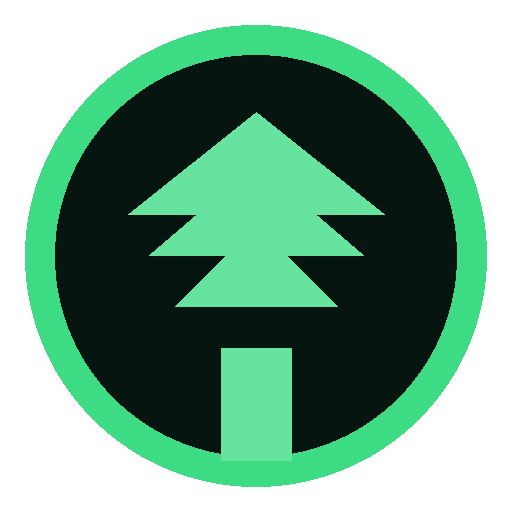
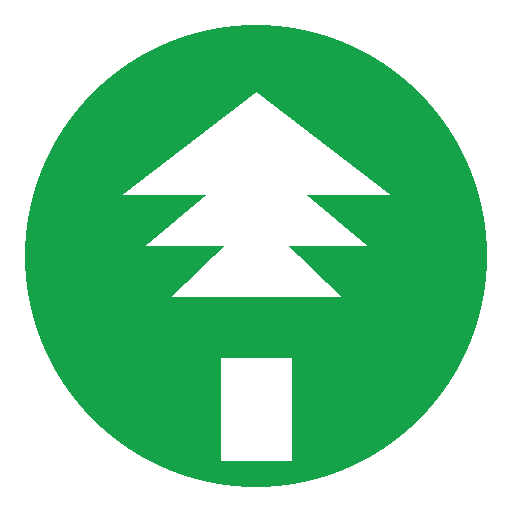
Add files via upload

diff --git a/index.html b/index.html
@@ -12,8 +12,8 @@
     <link rel="apple-touch-icon" href="/icon-192.png" />
     <link rel="manifest" href="/manifest.json" />
     <title>CARBONCHIP BI</title>
-    <script type="module" crossorigin src="/assets/index-DrqCAZCV.js"></script>
-    <link rel="stylesheet" crossorigin href="/assets/index-B7gFRBOR.css">
+    <script type="module" crossorigin src="/assets/index-B_oHOQU-.js"></script>
+    <link rel="stylesheet" crossorigin href="/assets/index-CCE2PNBq.css">
   </head>
   <body>
     <div id="root"></div>

diff --git a/sw.js b/sw.js
@@ -1,5 +1,5 @@
-const CACHE = 'carbonchip-bi-v1';
-const ASSETS = ['/', '/index.html', '/manifest.json', '/icon-192.png', '/icon-512.png', '/assets/index-DrqCAZCV.js', '/assets/index-B7gFRBOR.css'];
+const CACHE = 'carbonchip-bi-v2';
+const ASSETS = ['/', '/index.html', '/manifest.json', '/icon-192.png', '/icon-512.png', '/assets/index-B_oHOQU-.js', '/assets/index-CCE2PNBq.css'];
 self.addEventListener('install', e => { e.waitUntil(caches.open(CACHE).then(c => c.addAll(ASSETS))); self.skipWaiting(); });
 self.addEventListener('activate', e => { e.waitUntil(caches.keys().then(ks => Promise.all(ks.filter(k=>k!==CACHE).map(k=>caches.delete(k))))); self.clients.claim(); });
 self.addEventListener('fetch', e => { e.respondWith(caches.match(e.request).then(r => r || fetch(e.request))); });

diff --git a/assets/index-CCE2PNBq.css b/assets/index-CCE2PNBq.css
@@ -1,0 +1,1 @@
+@import "https://fonts.googleapis.com/css2?family=Poppins:wght@400;500;600;700;800&family=JetBrains+Mono:wght@400;600&display=swap";*,:before,:after,::backdrop{--tw-border-spacing-x:0;--tw-border-spacing-y:0;--tw-translate-x:0;--tw-translate-y:0;--tw-rotate:0;--tw-skew-x:0;--tw-skew-y:0;--tw-scale-x:1;--tw-scale-y:1;--tw-pan-x: ;--tw-pan-y: ;--tw-pinch-zoom: ;--tw-scroll-snap-strictness:proximity;--tw-gradient-from-position: ;--tw-gradient-via-position: ;--tw-gradient-to-position: ;--tw-ordinal: ;--tw-slashed-zero: ;--tw-numeric-figure: ;--tw-numeric-spacing: ;--tw-numeric-fraction: ;--tw-ring-inset: ;--tw-ring-offset-width:0px;--tw-ring-offset-color:#fff;--tw-ring-color:#3b82f680;--tw-ring-offset-shadow:0 0 #0000;--tw-ring-shadow:0 0 #0000;--tw-shadow:0 0 #0000;--tw-shadow-colored:0 0 #0000;--tw-blur: ;--tw-brightness: ;--tw-contrast: ;--tw-grayscale: ;--tw-hue-rotate: ;--tw-invert: ;--tw-saturate: ;--tw-sepia: ;--tw-drop-shadow: ;--tw-backdrop-blur: ;--tw-backdrop-brightness: ;--tw-backdrop-contrast: ;--tw-backdrop-grayscale: ;--tw-backdrop-hue-rotate: ;--tw-backdrop-invert: ;--tw-backdrop-opacity: ;--tw-backdrop-saturate: ;--tw-backdrop-sepia: ;--tw-contain-size: ;--tw-contain-layout: ;--tw-contain-paint: ;--tw-contain-style: }*,:before,:after{box-sizing:border-box;border:0 solid #e5e7eb}:before,:after{--tw-content:""}html,:host{-webkit-text-size-adjust:100%;tab-size:4;font-feature-settings:normal;font-variation-settings:normal;-webkit-tap-highlight-color:transparent;font-family:Poppins,system-ui,sans-serif;line-height:1.5}body{line-height:inherit;margin:0}hr{height:0;color:inherit;border-top-width:1px}abbr:where([title]){-webkit-text-decoration:underline dotted;text-decoration:underline dotted}h1,h2,h3,h4,h5,h6{font-size:inherit;font-weight:inherit}a{color:inherit;-webkit-text-decoration:inherit;text-decoration:inherit}b,strong{font-weight:bolder}code,kbd,samp,pre{font-feature-settings:normal;font-variation-settings:normal;font-family:JetBrains Mono,monospace;font-size:1em}small{font-size:80%}sub,sup{vertical-align:baseline;font-size:75%;line-height:0;position:relative}sub{bottom:-.25em}sup{top:-.5em}table{text-indent:0;border-color:inherit;border-collapse:collapse}button,input,optgroup,select,textarea{font-feature-settings:inherit;font-variation-settings:inherit;font-family:inherit;font-size:100%;font-weight:inherit;line-height:inherit;letter-spacing:inherit;color:inherit;margin:0;padding:0}button,select{text-transform:none}button,input:where([type=button]),input:where([type=reset]),input:where([type=submit]){-webkit-appearance:button;background-color:#0000;background-image:none}:-moz-focusring{outline:auto}:-moz-ui-invalid{box-shadow:none}progress{vertical-align:baseline}::-webkit-inner-spin-button{height:auto}::-webkit-outer-spin-button{height:auto}[type=search]{-webkit-appearance:textfield;outline-offset:-2px}::-webkit-search-decoration{-webkit-appearance:none}::-webkit-file-upload-button{-webkit-appearance:button;font:inherit}summary{display:list-item}blockquote,dl,dd,h1,h2,h3,h4,h5,h6,hr,figure,p,pre{margin:0}fieldset{margin:0;padding:0}legend{padding:0}ol,ul,menu{margin:0;padding:0;list-style:none}dialog{padding:0}textarea{resize:vertical}input::-moz-placeholder{opacity:1;color:#9ca3af}textarea::-moz-placeholder{opacity:1;color:#9ca3af}input::placeholder,textarea::placeholder{opacity:1;color:#9ca3af}button,[role=button]{cursor:pointer}:disabled{cursor:default}img,svg,video,canvas,audio,iframe,embed,object{vertical-align:middle;display:block}img,video{max-width:100%;height:auto}[hidden]:where(:not([hidden=until-found])){display:none}*,:before,:after{box-sizing:border-box}html{-webkit-tap-highlight-color:transparent}body{color:#0f172a;-webkit-font-smoothing:antialiased;background-color:#f8fafc;font-family:Poppins,system-ui,sans-serif}input[type=date],input[type=time]{--lightningcss-light:initial;--lightningcss-dark: ;color-scheme:light}input,select,button,textarea{font-family:inherit}::-webkit-scrollbar{width:4px;height:4px}::-webkit-scrollbar-track{background:#f1f5f9}::-webkit-scrollbar-thumb{background:#cbd5e1;border-radius:2px}.fixed{position:fixed}.absolute{position:absolute}.relative{position:relative}.sticky{position:sticky}.inset-0{inset:0}.bottom-0{bottom:0}.left-0{left:0}.right-0{right:0}.top-0{top:0}.top-\[101px\]{top:101px}.top-\[53px\]{top:53px}.z-10{z-index:10}.z-30{z-index:30}.z-40{z-index:40}.z-50{z-index:50}.mx-auto{margin-left:auto;margin-right:auto}.mb-0\.5{margin-bottom:.125rem}.mb-1{margin-bottom:.25rem}.mb-1\.5{margin-bottom:.375rem}.mb-2{margin-bottom:.5rem}.mb-3{margin-bottom:.75rem}.mb-4{margin-bottom:1rem}.mb-5{margin-bottom:1.25rem}.mb-8{margin-bottom:2rem}.ml-1{margin-left:.25rem}.mt-0\.5{margin-top:.125rem}.mt-1{margin-top:.25rem}.mt-1\.5{margin-top:.375rem}.mt-2{margin-top:.5rem}.mt-2\.5{margin-top:.625rem}.mt-3{margin-top:.75rem}.mt-4{margin-top:1rem}.block{display:block}.flex{display:flex}.inline-flex{display:inline-flex}.grid{display:grid}.hidden{display:none}.h-1{height:.25rem}.h-16{height:4rem}.h-2{height:.5rem}.h-20{height:5rem}.h-4{height:1rem}.h-7{height:1.75rem}.h-9{height:2.25rem}.h-full{height:100%}.max-h-28{max-height:7rem}.max-h-64{max-height:16rem}.max-h-72{max-height:18rem}.max-h-80{max-height:20rem}.max-h-96{max-height:24rem}.max-h-\[450px\]{max-height:450px}.min-h-\[72px\]{min-height:72px}.min-h-\[80px\]{min-height:80px}.min-h-screen{min-height:100vh}.w-16{width:4rem}.w-2{width:.5rem}.w-20{width:5rem}.w-4{width:1rem}.w-7{width:1.75rem}.w-9{width:2.25rem}.w-auto{width:auto}.w-full{width:100%}.min-w-0{min-width:0}.min-w-\[130px\]{min-width:130px}.min-w-\[52px\]{min-width:52px}.min-w-\[56px\]{min-width:56px}.min-w-\[60px\]{min-width:60px}.min-w-\[72px\]{min-width:72px}.max-w-2xl{max-width:42rem}.max-w-full{max-width:100%}.max-w-sm{max-width:24rem}.flex-1{flex:1}.shrink-0{flex-shrink:0}.transform{transform:translate(var(--tw-translate-x), var(--tw-translate-y)) rotate(var(--tw-rotate)) skewX(var(--tw-skew-x)) skewY(var(--tw-skew-y)) scaleX(var(--tw-scale-x)) scaleY(var(--tw-scale-y))}.cursor-pointer{cursor:pointer}.resize-none{resize:none}.appearance-none{appearance:none}.grid-cols-2{grid-template-columns:repeat(2,minmax(0,1fr))}.grid-cols-3{grid-template-columns:repeat(3,minmax(0,1fr))}.grid-cols-4{grid-template-columns:repeat(4,minmax(0,1fr))}.flex-col{flex-direction:column}.flex-wrap{flex-wrap:wrap}.items-start{align-items:flex-start}.items-end{align-items:flex-end}.items-center{align-items:center}.justify-center{justify-content:center}.justify-between{justify-content:space-between}.gap-0\.5{gap:.125rem}.gap-1\.5{gap:.375rem}.gap-2{gap:.5rem}.gap-3{gap:.75rem}.gap-4{gap:1rem}.gap-6{gap:1.5rem}.divide-y>:not([hidden])~:not([hidden]){--tw-divide-y-reverse:0;border-top-width:calc(1px * calc(1 - var(--tw-divide-y-reverse)));border-bottom-width:calc(1px * var(--tw-divide-y-reverse))}.divide-slate-50>:not([hidden])~:not([hidden]){--tw-divide-opacity:1;border-color:rgb(248 250 252/var(--tw-divide-opacity,1))}.overflow-hidden{overflow:hidden}.overflow-x-auto{overflow-x:auto}.overflow-y-auto{overflow-y:auto}.truncate{text-overflow:ellipsis;white-space:nowrap;overflow:hidden}.whitespace-nowrap{white-space:nowrap}.rounded-2xl{border-radius:1rem}.rounded-full{border-radius:9999px}.rounded-lg{border-radius:.5rem}.rounded-md{border-radius:.375rem}.rounded-xl{border-radius:.75rem}.rounded-t{border-top-left-radius:.25rem;border-top-right-radius:.25rem}.border{border-width:1px}.border-2{border-width:2px}.border-b{border-bottom-width:1px}.border-b-2{border-bottom-width:2px}.border-t{border-top-width:1px}.border-t-2{border-top-width:2px}.border-dashed{border-style:dashed}.border-amber-200{--tw-border-opacity:1;border-color:rgb(253 230 138/var(--tw-border-opacity,1))}.border-amber-400{--tw-border-opacity:1;border-color:rgb(251 191 36/var(--tw-border-opacity,1))}.border-amber-500{--tw-border-opacity:1;border-color:rgb(245 158 11/var(--tw-border-opacity,1))}.border-blue-200{--tw-border-opacity:1;border-color:rgb(191 219 254/var(--tw-border-opacity,1))}.border-blue-600{--tw-border-opacity:1;border-color:rgb(37 99 235/var(--tw-border-opacity,1))}.border-brand-200{--tw-border-opacity:1;border-color:rgb(187 247 208/var(--tw-border-opacity,1))}.border-brand-600{--tw-border-opacity:1;border-color:rgb(22 163 74/var(--tw-border-opacity,1))}.border-orange-200{--tw-border-opacity:1;border-color:rgb(254 215 170/var(--tw-border-opacity,1))}.border-orange-500{--tw-border-opacity:1;border-color:rgb(249 115 22/var(--tw-border-opacity,1))}.border-pink-500{--tw-border-opacity:1;border-color:rgb(236 72 153/var(--tw-border-opacity,1))}.border-purple-200{--tw-border-opacity:1;border-color:rgb(233 213 255/var(--tw-border-opacity,1))}.border-purple-600{--tw-border-opacity:1;border-color:rgb(147 51 234/var(--tw-border-opacity,1))}.border-red-200{--tw-border-opacity:1;border-color:rgb(254 202 202/var(--tw-border-opacity,1))}.border-slate-100{--tw-border-opacity:1;border-color:rgb(241 245 249/var(--tw-border-opacity,1))}.border-slate-200{--tw-border-opacity:1;border-color:rgb(226 232 240/var(--tw-border-opacity,1))}.border-teal-600{--tw-border-opacity:1;border-color:rgb(13 148 136/var(--tw-border-opacity,1))}.border-transparent{border-color:#0000}.border-t-brand-500{--tw-border-opacity:1;border-top-color:rgb(34 197 94/var(--tw-border-opacity,1))}.bg-amber-400{--tw-bg-opacity:1;background-color:rgb(251 191 36/var(--tw-bg-opacity,1))}.bg-amber-50{--tw-bg-opacity:1;background-color:rgb(255 251 235/var(--tw-bg-opacity,1))}.bg-amber-500{--tw-bg-opacity:1;background-color:rgb(245 158 11/var(--tw-bg-opacity,1))}.bg-blue-50{--tw-bg-opacity:1;background-color:rgb(239 246 255/var(--tw-bg-opacity,1))}.bg-blue-500{--tw-bg-opacity:1;background-color:rgb(59 130 246/var(--tw-bg-opacity,1))}.bg-blue-600{--tw-bg-opacity:1;background-color:rgb(37 99 235/var(--tw-bg-opacity,1))}.bg-brand-400{--tw-bg-opacity:1;background-color:rgb(74 222 128/var(--tw-bg-opacity,1))}.bg-brand-50{--tw-bg-opacity:1;background-color:rgb(240 253 244/var(--tw-bg-opacity,1))}.bg-brand-500{--tw-bg-opacity:1;background-color:rgb(34 197 94/var(--tw-bg-opacity,1))}.bg-brand-600{--tw-bg-opacity:1;background-color:rgb(22 163 74/var(--tw-bg-opacity,1))}.bg-cyan-600{--tw-bg-opacity:1;background-color:rgb(8 145 178/var(--tw-bg-opacity,1))}.bg-orange-50{--tw-bg-opacity:1;background-color:rgb(255 247 237/var(--tw-bg-opacity,1))}.bg-orange-500{--tw-bg-opacity:1;background-color:rgb(249 115 22/var(--tw-bg-opacity,1))}.bg-pink-500{--tw-bg-opacity:1;background-color:rgb(236 72 153/var(--tw-bg-opacity,1))}.bg-purple-50{--tw-bg-opacity:1;background-color:rgb(250 245 255/var(--tw-bg-opacity,1))}.bg-purple-500{--tw-bg-opacity:1;background-color:rgb(168 85 247/var(--tw-bg-opacity,1))}.bg-purple-600{--tw-bg-opacity:1;background-color:rgb(147 51 234/var(--tw-bg-opacity,1))}.bg-red-400{--tw-bg-opacity:1;background-color:rgb(248 113 113/var(--tw-bg-opacity,1))}.bg-red-50{--tw-bg-opacity:1;background-color:rgb(254 242 242/var(--tw-bg-opacity,1))}.bg-red-500{--tw-bg-opacity:1;background-color:rgb(239 68 68/var(--tw-bg-opacity,1))}.bg-sky-600{--tw-bg-opacity:1;background-color:rgb(2 132 199/var(--tw-bg-opacity,1))}.bg-slate-100{--tw-bg-opacity:1;background-color:rgb(241 245 249/var(--tw-bg-opacity,1))}.bg-slate-300{--tw-bg-opacity:1;background-color:rgb(203 213 225/var(--tw-bg-opacity,1))}.bg-slate-50{--tw-bg-opacity:1;background-color:rgb(248 250 252/var(--tw-bg-opacity,1))}.bg-teal-500{--tw-bg-opacity:1;background-color:rgb(20 184 166/var(--tw-bg-opacity,1))}.bg-teal-600{--tw-bg-opacity:1;background-color:rgb(13 148 136/var(--tw-bg-opacity,1))}.bg-transparent{background-color:#0000}.bg-white{--tw-bg-opacity:1;background-color:rgb(255 255 255/var(--tw-bg-opacity,1))}.bg-white\/90{background-color:#ffffffe6}.bg-\[right_12px_center\]{background-position:right 12px center}.bg-no-repeat{background-repeat:no-repeat}.object-contain{-o-object-fit:contain;object-fit:contain}.p-0{padding:0}.p-2{padding:.5rem}.p-3{padding:.75rem}.p-4{padding:1rem}.px-1{padding-left:.25rem;padding-right:.25rem}.px-1\.5{padding-left:.375rem;padding-right:.375rem}.px-2{padding-left:.5rem;padding-right:.5rem}.px-2\.5{padding-left:.625rem;padding-right:.625rem}.px-3{padding-left:.75rem;padding-right:.75rem}.px-4{padding-left:1rem;padding-right:1rem}.px-5{padding-left:1.25rem;padding-right:1.25rem}.px-6{padding-left:1.5rem;padding-right:1.5rem}.py-0\.5{padding-top:.125rem;padding-bottom:.125rem}.py-1{padding-top:.25rem;padding-bottom:.25rem}.py-1\.5{padding-top:.375rem;padding-bottom:.375rem}.py-2{padding-top:.5rem;padding-bottom:.5rem}.py-2\.5{padding-top:.625rem;padding-bottom:.625rem}.py-3{padding-top:.75rem;padding-bottom:.75rem}.py-4{padding-top:1rem;padding-bottom:1rem}.py-5{padding-top:1.25rem;padding-bottom:1.25rem}.py-8{padding-top:2rem;padding-bottom:2rem}.pb-1{padding-bottom:.25rem}.pb-2\.5{padding-bottom:.625rem}.pb-3{padding-bottom:.75rem}.pr-8{padding-right:2rem}.pt-4{padding-top:1rem}.text-center{text-align:center}.text-right{text-align:right}.font-mono{font-family:JetBrains Mono,monospace}.font-sans{font-family:Poppins,system-ui,sans-serif}.text-2xl{font-size:1.5rem;line-height:2rem}.text-3xl{font-size:1.875rem;line-height:2.25rem}.text-\[10px\]{font-size:10px}.text-\[9px\]{font-size:9px}.text-base{font-size:1rem;line-height:1.5rem}.text-lg{font-size:1.125rem;line-height:1.75rem}.text-sm{font-size:.875rem;line-height:1.25rem}.text-xl{font-size:1.25rem;line-height:1.75rem}.text-xs{font-size:.75rem;line-height:1rem}.font-bold{font-weight:700}.font-extrabold{font-weight:800}.font-medium{font-weight:500}.font-normal{font-weight:400}.font-semibold{font-weight:600}.uppercase{text-transform:uppercase}.capitalize{text-transform:capitalize}.leading-none{line-height:1}.tracking-tight{letter-spacing:-.025em}.tracking-wide{letter-spacing:.025em}.tracking-wider{letter-spacing:.05em}.tracking-widest{letter-spacing:.1em}.text-amber-500{--tw-text-opacity:1;color:rgb(245 158 11/var(--tw-text-opacity,1))}.text-amber-600{--tw-text-opacity:1;color:rgb(217 119 6/var(--tw-text-opacity,1))}.text-amber-700{--tw-text-opacity:1;color:rgb(180 83 9/var(--tw-text-opacity,1))}.text-blue-600{--tw-text-opacity:1;color:rgb(37 99 235/var(--tw-text-opacity,1))}.text-blue-700{--tw-text-opacity:1;color:rgb(29 78 216/var(--tw-text-opacity,1))}.text-brand-400{--tw-text-opacity:1;color:rgb(74 222 128/var(--tw-text-opacity,1))}.text-brand-500{--tw-text-opacity:1;color:rgb(34 197 94/var(--tw-text-opacity,1))}.text-brand-600{--tw-text-opacity:1;color:rgb(22 163 74/var(--tw-text-opacity,1))}.text-brand-700{--tw-text-opacity:1;color:rgb(21 128 61/var(--tw-text-opacity,1))}.text-orange-500{--tw-text-opacity:1;color:rgb(249 115 22/var(--tw-text-opacity,1))}.text-orange-700{--tw-text-opacity:1;color:rgb(194 65 12/var(--tw-text-opacity,1))}.text-pink-500{--tw-text-opacity:1;color:rgb(236 72 153/var(--tw-text-opacity,1))}.text-purple-600{--tw-text-opacity:1;color:rgb(147 51 234/var(--tw-text-opacity,1))}.text-purple-700{--tw-text-opacity:1;color:rgb(126 34 206/var(--tw-text-opacity,1))}.text-red-400{--tw-text-opacity:1;color:rgb(248 113 113/var(--tw-text-opacity,1))}.text-red-500{--tw-text-opacity:1;color:rgb(239 68 68/var(--tw-text-opacity,1))}.text-red-600{--tw-text-opacity:1;color:rgb(220 38 38/var(--tw-text-opacity,1))}.text-red-700{--tw-text-opacity:1;color:rgb(185 28 28/var(--tw-text-opacity,1))}.text-slate-300{--tw-text-opacity:1;color:rgb(203 213 225/var(--tw-text-opacity,1))}.text-slate-400{--tw-text-opacity:1;color:rgb(148 163 184/var(--tw-text-opacity,1))}.text-slate-500{--tw-text-opacity:1;color:rgb(100 116 139/var(--tw-text-opacity,1))}.text-slate-600{--tw-text-opacity:1;color:rgb(71 85 105/var(--tw-text-opacity,1))}.text-slate-700{--tw-text-opacity:1;color:rgb(51 65 85/var(--tw-text-opacity,1))}.text-slate-800{--tw-text-opacity:1;color:rgb(30 41 59/var(--tw-text-opacity,1))}.text-slate-900{--tw-text-opacity:1;color:rgb(15 23 42/var(--tw-text-opacity,1))}.text-teal-600{--tw-text-opacity:1;color:rgb(13 148 136/var(--tw-text-opacity,1))}.text-white{--tw-text-opacity:1;color:rgb(255 255 255/var(--tw-text-opacity,1))}.accent-brand-600{accent-color:#16a34a}.opacity-0{opacity:0}.opacity-70{opacity:.7}.opacity-80{opacity:.8}.shadow-card{--tw-shadow:0 1px 3px 0 #0000000f, 0 1px 2px -1px #0000000a;--tw-shadow-colored:0 1px 3px 0 var(--tw-shadow-color), 0 1px 2px -1px var(--tw-shadow-color);box-shadow:var(--tw-ring-offset-shadow,0 0 #0000), var(--tw-ring-shadow,0 0 #0000), var(--tw-shadow)}.shadow-card-md{--tw-shadow:0 4px 6px -1px #0000000f, 0 2px 4px -2px #0000000a;--tw-shadow-colored:0 4px 6px -1px var(--tw-shadow-color), 0 2px 4px -2px var(--tw-shadow-color);box-shadow:var(--tw-ring-offset-shadow,0 0 #0000), var(--tw-ring-shadow,0 0 #0000), var(--tw-shadow)}.shadow-lg{--tw-shadow:0 10px 15px -3px #0000001a, 0 4px 6px -4px #0000001a;--tw-shadow-colored:0 10px 15px -3px var(--tw-shadow-color), 0 4px 6px -4px var(--tw-shadow-color);box-shadow:var(--tw-ring-offset-shadow,0 0 #0000), var(--tw-ring-shadow,0 0 #0000), var(--tw-shadow)}.shadow-sm{--tw-shadow:0 1px 2px 0 #0000000d;--tw-shadow-colored:0 1px 2px 0 var(--tw-shadow-color);box-shadow:var(--tw-ring-offset-shadow,0 0 #0000), var(--tw-ring-shadow,0 0 #0000), var(--tw-shadow)}.outline{outline-style:solid}.filter{filter:var(--tw-blur) var(--tw-brightness) var(--tw-contrast) var(--tw-grayscale) var(--tw-hue-rotate) var(--tw-invert) var(--tw-saturate) var(--tw-sepia) var(--tw-drop-shadow)}.transition{transition-property:color,background-color,border-color,text-decoration-color,fill,stroke,opacity,box-shadow,transform,filter,-webkit-backdrop-filter,backdrop-filter;transition-duration:.15s;transition-timing-function:cubic-bezier(.4,0,.2,1)}.transition-all{transition-property:all;transition-duration:.15s;transition-timing-function:cubic-bezier(.4,0,.2,1)}.duration-150{transition-duration:.15s}.duration-500{transition-duration:.5s}.scrollbar-hide::-webkit-scrollbar{display:none}.scrollbar-hide{-ms-overflow-style:none;scrollbar-width:none}@keyframes spin{to{transform:rotate(360deg)}}.placeholder\:text-slate-400::placeholder{--tw-text-opacity:1;color:rgb(148 163 184/var(--tw-text-opacity,1))}.last\:mb-0:last-child{margin-bottom:0}.last\:border-0:last-child{border-width:0}.hover\:border-amber-300:hover{--tw-border-opacity:1;border-color:rgb(252 211 77/var(--tw-border-opacity,1))}.hover\:border-blue-300:hover{--tw-border-opacity:1;border-color:rgb(147 197 253/var(--tw-border-opacity,1))}.hover\:border-brand-300:hover{--tw-border-opacity:1;border-color:rgb(134 239 172/var(--tw-border-opacity,1))}.hover\:border-brand-400:hover{--tw-border-opacity:1;border-color:rgb(74 222 128/var(--tw-border-opacity,1))}.hover\:border-orange-300:hover{--tw-border-opacity:1;border-color:rgb(253 186 116/var(--tw-border-opacity,1))}.hover\:border-purple-300:hover{--tw-border-opacity:1;border-color:rgb(216 180 254/var(--tw-border-opacity,1))}.hover\:border-slate-100:hover{--tw-border-opacity:1;border-color:rgb(241 245 249/var(--tw-border-opacity,1))}.hover\:border-slate-300:hover{--tw-border-opacity:1;border-color:rgb(203 213 225/var(--tw-border-opacity,1))}.hover\:border-teal-300:hover{--tw-border-opacity:1;border-color:rgb(94 234 212/var(--tw-border-opacity,1))}.hover\:bg-amber-600:hover{--tw-bg-opacity:1;background-color:rgb(217 119 6/var(--tw-bg-opacity,1))}.hover\:bg-blue-700:hover{--tw-bg-opacity:1;background-color:rgb(29 78 216/var(--tw-bg-opacity,1))}.hover\:bg-brand-50:hover{--tw-bg-opacity:1;background-color:rgb(240 253 244/var(--tw-bg-opacity,1))}.hover\:bg-brand-700:hover{--tw-bg-opacity:1;background-color:rgb(21 128 61/var(--tw-bg-opacity,1))}.hover\:bg-orange-600:hover{--tw-bg-opacity:1;background-color:rgb(234 88 12/var(--tw-bg-opacity,1))}.hover\:bg-pink-600:hover{--tw-bg-opacity:1;background-color:rgb(219 39 119/var(--tw-bg-opacity,1))}.hover\:bg-purple-700:hover{--tw-bg-opacity:1;background-color:rgb(126 34 206/var(--tw-bg-opacity,1))}.hover\:bg-red-50:hover{--tw-bg-opacity:1;background-color:rgb(254 242 242/var(--tw-bg-opacity,1))}.hover\:bg-red-600:hover{--tw-bg-opacity:1;background-color:rgb(220 38 38/var(--tw-bg-opacity,1))}.hover\:bg-slate-100:hover{--tw-bg-opacity:1;background-color:rgb(241 245 249/var(--tw-bg-opacity,1))}.hover\:bg-slate-50:hover{--tw-bg-opacity:1;background-color:rgb(248 250 252/var(--tw-bg-opacity,1))}.hover\:bg-teal-700:hover{--tw-bg-opacity:1;background-color:rgb(15 118 110/var(--tw-bg-opacity,1))}.hover\:text-amber-600:hover{--tw-text-opacity:1;color:rgb(217 119 6/var(--tw-text-opacity,1))}.hover\:text-blue-600:hover{--tw-text-opacity:1;color:rgb(37 99 235/var(--tw-text-opacity,1))}.hover\:text-brand-600:hover{--tw-text-opacity:1;color:rgb(22 163 74/var(--tw-text-opacity,1))}.hover\:text-orange-500:hover{--tw-text-opacity:1;color:rgb(249 115 22/var(--tw-text-opacity,1))}.hover\:text-purple-600:hover{--tw-text-opacity:1;color:rgb(147 51 234/var(--tw-text-opacity,1))}.hover\:text-red-400:hover{--tw-text-opacity:1;color:rgb(248 113 113/var(--tw-text-opacity,1))}.hover\:text-slate-700:hover{--tw-text-opacity:1;color:rgb(51 65 85/var(--tw-text-opacity,1))}.hover\:text-teal-600:hover{--tw-text-opacity:1;color:rgb(13 148 136/var(--tw-text-opacity,1))}.focus\:border-transparent:focus{border-color:#0000}.focus\:outline-none:focus{outline-offset:2px;outline:2px solid #0000}.focus\:ring-2:focus{--tw-ring-offset-shadow:var(--tw-ring-inset) 0 0 0 var(--tw-ring-offset-width) var(--tw-ring-offset-color);--tw-ring-shadow:var(--tw-ring-inset) 0 0 0 calc(2px + var(--tw-ring-offset-width)) var(--tw-ring-color);box-shadow:var(--tw-ring-offset-shadow), var(--tw-ring-shadow), var(--tw-shadow,0 0 #0000)}.focus\:ring-amber-400:focus{--tw-ring-opacity:1;--tw-ring-color:rgb(251 191 36/var(--tw-ring-opacity,1))}.focus\:ring-blue-400:focus{--tw-ring-opacity:1;--tw-ring-color:rgb(96 165 250/var(--tw-ring-opacity,1))}.focus\:ring-brand-500:focus{--tw-ring-opacity:1;--tw-ring-color:rgb(34 197 94/var(--tw-ring-opacity,1))}.focus\:ring-orange-400:focus{--tw-ring-opacity:1;--tw-ring-color:rgb(251 146 60/var(--tw-ring-opacity,1))}.focus\:ring-pink-400:focus{--tw-ring-opacity:1;--tw-ring-color:rgb(244 114 182/var(--tw-ring-opacity,1))}.focus\:ring-purple-400:focus{--tw-ring-opacity:1;--tw-ring-color:rgb(192 132 252/var(--tw-ring-opacity,1))}.focus\:ring-red-400:focus{--tw-ring-opacity:1;--tw-ring-color:rgb(248 113 113/var(--tw-ring-opacity,1))}.focus\:ring-slate-300:focus{--tw-ring-opacity:1;--tw-ring-color:rgb(203 213 225/var(--tw-ring-opacity,1))}.focus\:ring-teal-400:focus{--tw-ring-opacity:1;--tw-ring-color:rgb(45 212 191/var(--tw-ring-opacity,1))}.focus\:ring-offset-1:focus{--tw-ring-offset-width:1px}.disabled\:cursor-not-allowed:disabled{cursor:not-allowed}.disabled\:opacity-50:disabled{opacity:.5}.group:hover .group-hover\:opacity-100{opacity:1}.data-\[a\]\:border-brand-600[data-a]{--tw-border-opacity:1;border-color:rgb(22 163 74/var(--tw-border-opacity,1))}.data-\[a\]\:bg-brand-600[data-a]{--tw-bg-opacity:1;background-color:rgb(22 163 74/var(--tw-bg-opacity,1))}.data-\[a\]\:text-white[data-a]{--tw-text-opacity:1;color:rgb(255 255 255/var(--tw-text-opacity,1))}